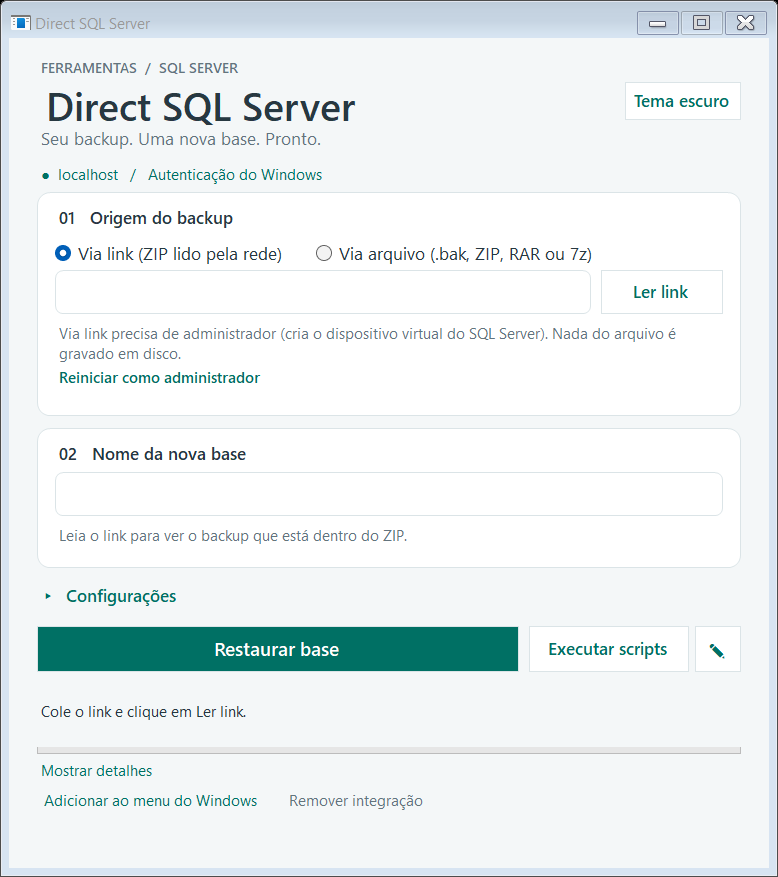
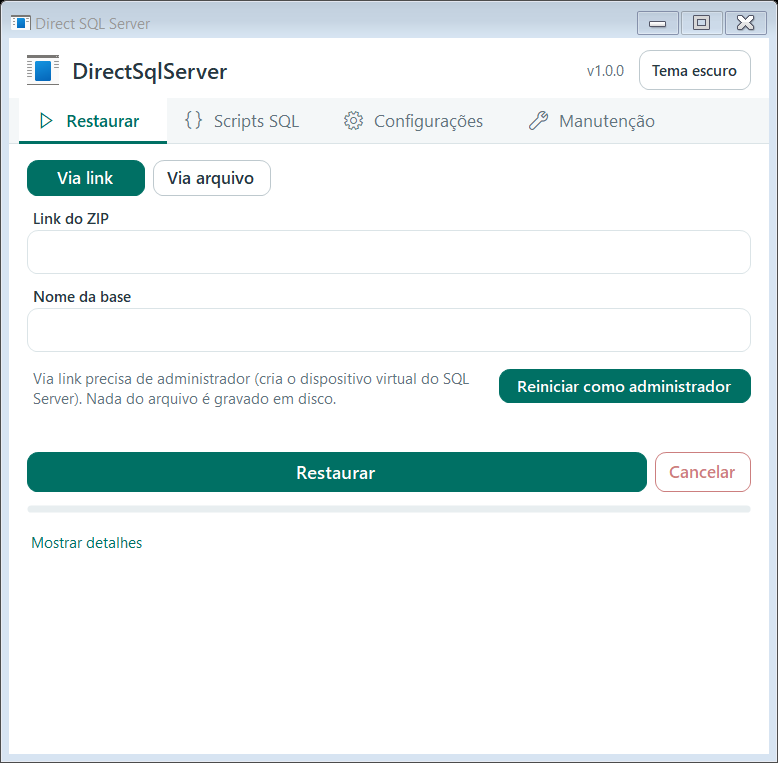
Update documentation: tabbed layout, SQL Server login, notifications, link-first restore, screenshots

diff --git a/README.md b/README.md
@@ -6,7 +6,7 @@ Aplicativo para **Windows** que restaura um backup do SQL Server em uma **base n
   <img src="docs/img/03-compactado-claro.png" alt="Janela principal do Direct SQL Server com um ZIP selecionado" width="520">
 </p>
 
-> **Versão atual: 1.11.2.** Veja o que mudou nas [notas de versão](CHANGELOG.md).
+> **Versão atual: 1.12.0.** Veja o que mudou nas [notas de versão](CHANGELOG.md).
 
 ## Sumário
 
@@ -20,6 +20,9 @@ Aplicativo para **Windows** que restaura um backup do SQL Server em uma **base n
 - [Configurações (opções da restauração)](#configurações-opções-da-restauração)
 - [Opções ao terminar a restauração](#opções-ao-terminar-a-restauração)
 - [Cancelar uma restauração](#cancelar-uma-restauração)
+- [Notificação ao terminar](#notificação-ao-terminar)
+- [Integridade dos dados](#integridade-dos-dados)
+- [Sobras de restaurações interrompidas](#sobras-de-restaurações-interrompidas)
 - [Executar scripts SQL na base restaurada](#executar-scripts-sql-na-base-restaurada)
 - [Menu do botão direito no Explorer](#menu-do-botão-direito-no-explorer)
 - [Tema claro e escuro](#tema-claro-e-escuro)
@@ -41,6 +44,10 @@ Aplicativo para **Windows** que restaura um backup do SQL Server em uma **base n
 - **Nunca substitui nada:** se já existir uma base com o nome escolhido, a restauração é recusada e nada é alterado.
 - **Seguro por padrão:** conecta só no SQL Server **do próprio computador**, com a **autenticação do Windows**. Não pede nem guarda senha.
 - **Cancelar** a restauração a qualquer momento, removendo a base parcial.
+- **Integridade:** confere o CRC do ZIP sozinho e, se você quiser, roda o `DBCC CHECKDB` no fim.
+- **Aguenta queda de rede** no modo link: espera e continua de onde parou.
+- **Links** do Dropbox, Google Drive, OneDrive, SharePoint e S3.
+- **Avisa** quando termina (aviso do app e/ou notificação do Windows) e **limpa sobras** de restaurações interrompidas.
 - **Depois de restaurar (opcional):** executar scripts SQL salvos e **reduzir o arquivo de log**.
 - **Scripts SQL:** botão para rodar, e editar, comandos na base restaurada.
 - **Menu do Explorer:** botão direito no arquivo → *Restaurar no SQL Server…* (opcional).
@@ -98,7 +105,7 @@ No cartão **01 Origem do backup** há duas opções. A linha abaixo muda confor
 
 | Opção | Campo | O que faz |
 |---|---|---|
-| **Via link (ZIP lido pela rede)** | Cole o link e clique em **Ler link** | Lê o índice do ZIP pela rede e mostra o backup que está dentro dele. Veja [Via link](#via-link-restaurar-sem-baixar). |
+| **Via link (ZIP lido pela rede)** | Cole o link e clique em **Restaurar** | Lê o índice do ZIP pela rede e mostra o backup que está dentro dele. Veja [Via link](#via-link-restaurar-sem-baixar). |
 | **Via arquivo (.bak, ZIP, RAR ou 7z)** | Clique em **Selecionar…** ou arraste o arquivo para a janela | Usa um arquivo do disco. Veja [Via arquivo](#via-arquivo-backup-dentro-de-um-compactado). |
 
 <p align="center">
@@ -171,7 +178,7 @@ Com um compactado selecionado **via arquivo**, a caixa **AO RESTAURAR UM COMPACT
   <img src="docs/img/03-compactado-claro.png" alt="Opções de exclusão disponíveis com um compactado selecionado" width="460">
 </p>
 
-- As duas começam **desmarcadas** no primeiro uso e a sua escolha fica salva (`%APPDATA%\DirectSqlServer\preferences.xml`).
+- As duas começam **marcadas** para quem instala agora (quem já usava o app mantém o que escolheu) e a sua escolha fica salva (`%APPDATA%\DirectSqlServer\preferences.xml`).
 - **Só excluem após o sucesso.** Se a restauração falhar, o original e o `.bak` extraído são **preservados**, mesmo com as opções marcadas.
 - Antes de excluir o compactado, o app confere se ele é o mesmo arquivo que você selecionou; se outro programa o trocou ou alterou, **não é excluído**.
 
@@ -181,7 +188,7 @@ Se o Windows não deixar criar a pasta de extração ao lado do compactado (por 
 
 ## Cancelar uma restauração
 
-Enquanto a restauração roda (via link ou via arquivo), o botão **Cancelar** ocupa o lugar de **Executar scripts**, ao lado de **Restaurar base**.
+Enquanto a restauração roda (via link ou via arquivo), o botão **Cancelar**, ao lado de **Restaurar base** na aba **Restaurar**, fica ativo.
 
 1. Clique em **Cancelar** e confirme.
 2. O app interrompe a leitura (extração ou download) e o RESTORE no SQL Server.
@@ -190,16 +197,50 @@ Enquanto a restauração roda (via link ou via arquivo), o botão **Cancelar** o
 
 Cancelar não é instantâneo em backups enormes: o SQL Server precisa desfazer o que já gravou e apagar os arquivos da base parcial, o que pode levar de alguns segundos a alguns minutos.
 
+## Notificação ao terminar
+
+Quando uma restauração termina, é cancelada ou tem um problema, o app avisa. Em **Configurações → Geral → Notificação ao terminar** você escolhe como:
+
+| Opção | O que mostra |
+|---|---|
+| **App** | Um aviso flutuante do próprio app, no canto da tela (sempre no topo, sem tirar o foco de quem está digitando), com o botão **Abrir** que traz a janela de volta. Fecha sozinho em 10 segundos (para de contar com o mouse em cima) e tem um **X** para dispensar. |
+| **Windows** | A notificação padrão do Windows. Clicar nela traz o app de volta. |
+| **Ambas** | Os dois avisos. |
+| **Nenhuma** (padrão) | Não avisa. |
+
+O botão **Testar** mostra na hora a notificação escolhida. O aviso aparece mesmo com a janela à vista. A cor da faixa indica o resultado: verde (concluída), amarelo (cancelada) ou vermelho (problema).
+
+<p align="center">
+  <img src="docs/img/20-aviso-concluida-claro.png" alt="Aviso flutuante do app: Restauração concluída" width="420">
+</p>
+
+## Integridade dos dados
+
+Duas conferências protegem contra backup ou download corrompido:
+
+1. **CRC do ZIP, automático.** Um ZIP guarda uma soma de verificação (CRC-32) de cada arquivo. O app a confere sempre que lê um `.bak` de dentro de um ZIP, via link ou via arquivo. Se não bater, a restauração é **abortada antes de terminar**, a base parcial é removida e a mensagem diz que o arquivo está corrompido. No fim, o registro diz "CRC-32 do ZIP conferido" (ou "não conferido" quando o SQL Server não leu o arquivo até o fim, caso de um `.bak` com mais de um backup).
+2. **DBCC CHECKDB, opcional.** Na aba **Configurações**, marque **DBCC CHECKDB depois**. O SQL Server examina todas as páginas da base. Se achar problemas, a mensagem aparece em vermelho com os detalhes e a base continua disponível (nada é apagado).
+
+Nenhuma das duas substitui o backup original estar saudável: se o backup foi gerado com problema, o `CHECKDB` é a forma de saber.
+
+## Sobras de restaurações interrompidas
+
+Se o app for fechado à força, o PC desligar ou o SQL Server reiniciar no meio de uma restauração, podem sobrar na pasta de dados do SQL Server uma base parcial (`DirectSqlRestore_…`, em "Restaurando") e arquivos `restore_…` que nenhuma base usa, às vezes dezenas de GB.
+
+- **Ao abrir**, o app procura essas sobras. Se achar, pergunta: "Encontrei restos de restaurações interrompidas… Apagar agora?". Você escolhe **Sim** ou **Não**.
+- **Pela aba Manutenção**, em **Limpar arquivos sobrando → Procurar**, você pode procurar quando quiser.
+- Só são considerados arquivos com o **nome criado pelo app** (`restore_<nome>_<código>_N.mdf/ndf/ldf`), que **nenhuma base usa** e com mais de 2 minutos. Nada é apagado enquanto houver uma restauração em andamento. Arquivos de qualquer outra base, ou com nome diferente, nunca são tocados.
+
 ## Executar scripts SQL na base restaurada
 
-Ao lado de **Restaurar base** há o botão **Executar scripts** e um lápis para editá-los. Eles rodam comandos SQL na base indicada em **Nome da nova base**, por exemplo para ajustar dados logo depois de restaurar um backup de produção.
+A aba **Scripts SQL** tem o editor dos comandos e os botões **Executar scripts**, **Salvar** e **Restaurar padrão**. Os comandos rodam na base indicada em **Nome da nova base** (aba **Restaurar**), por exemplo para ajustar dados logo depois de restaurar um backup de produção.
 
-1. **Veja ou altere os comandos:** clique no **lápis**. Abre uma janela com os scripts salvos (na primeira vez, o padrão do app). Edite como quiser e clique em **Salvar**. **Restaurar padrão** volta ao texto original.
-2. **Execute:** confira o nome da base e clique em **Executar scripts**. O app pede confirmação mostrando o nome da base e quantos lotes serão executados.
+1. **Veja ou altere os comandos:** abra a aba **Scripts SQL**. O editor mostra os scripts salvos (na primeira vez, o padrão do app). Edite como quiser e clique em **Salvar**; o título da aba ganha um ponto (**Scripts SQL •**) enquanto há alterações não salvas. **Restaurar padrão** volta ao texto original.
+2. **Execute:** confira o nome da base e clique em **Executar scripts**. Se houver alterações não salvas, o app as salva antes. Ele pede confirmação mostrando o nome da base e quantos lotes serão executados.
 3. **Resultado:** os detalhes abrem sozinhos mostrando cada lote e quantas linhas cada comando afetou.
 
 <p align="center">
-  <img src="docs/img/10-editar-scripts-claro.png" alt="Janela de edição dos scripts SQL" width="560">
+  <img src="docs/img/17-aba-scripts-claro.png" alt="Aba Scripts SQL com o editor e os botões" width="460">
 </p>
 
 <p align="center">
@@ -208,7 +249,7 @@ Ao lado de **Restaurar base** há o botão **Executar scripts** e um lápis para
 
 ### Executar automaticamente depois de restaurar
 
-Marcando **Executar os scripts SQL salvos na base restaurada**, o app roda os scripts salvos logo depois de **restaurar com sucesso**, sem pedir confirmação nem precisar clicar em **Executar scripts**.
+Marcando **Executar os scripts SQL salvos**, o app roda os scripts salvos logo depois de **restaurar com sucesso**, sem pedir confirmação nem precisar clicar em **Executar scripts**.
 
 - **Desmarcada por padrão.** A escolha fica salva em `%APPDATA%\DirectSqlServer\preferences.xml` e continua depois de reiniciar o PC.
 - **Vale via arquivo e via link.**
@@ -234,9 +275,9 @@ Com **Via link** selecionado, o app restaura **direto de um link para um ZIP**, 
 
 **Passo a passo**
 1. Com **Via link** selecionado, o app mostra um aviso se não estiver como administrador (o dispositivo virtual exige isso). Clique em **Reiniciar como administrador**, aceite o pedido do Windows e o app reabre.
-2. Cole o **link público (https)** de um `.zip` e clique em **Ler link**. Com o Dropbox, use o link com `dl=1` no final.
-3. O app lê só o índice do ZIP e mostra o backup que está dentro dele, no cartão do nome. Se houver mais de um `.bak`, abre uma janela para você escolher. O nome da base é sugerido a partir do nome do `.bak`.
-4. Confira o nome da nova base e clique em **Restaurar base**. A barra mostra quanto já foi lido da rede, a velocidade e o tempo restante.
+2. Cole o **link público (https)** de um `.zip`. Com o Dropbox, use o link com `dl=1` no final. Informe o **Nome da base** (se deixar vazio, o app usa o nome do `.bak`).
+3. Clique em **Restaurar**. O primeiro passo é ler só o índice do ZIP pela rede. Se houver mais de um `.bak`, abre uma janela para você escolher.
+4. A restauração segue sozinha. A barra mostra quanto já foi lido da rede, a velocidade e o tempo restante.
 
 <p align="center">
   <img src="docs/img/14-link-preparando-claro.png" alt="Fase de preparação dos arquivos da base no SQL Server" width="460">
@@ -252,12 +293,26 @@ Com **Via link** selecionado, o app restaura **direto de um link para um ZIP**, 
 
 **O que você economiza.** Hoje, com um ZIP de 50 GB e um backup de 100 GB, o pico de disco chega a cerca de 250 GB (ZIP + pasta extraída + base). Restaurando do link, o pico é só o da **base (100 GB)**.
 
+**Links aceitos.** Cole o link de compartilhamento como ele vem; o app converte para o endereço de download:
+
+| Serviço | O que o app faz |
+|---|---|
+| **Dropbox** | Troca `dl=0` por `dl=1` (ou acrescenta). |
+| **Google Drive** | Aceita `drive.google.com/file/d/…/view`, `open?id=…` e `uc?id=…`; o arquivo precisa estar com "Qualquer pessoa com o link". |
+| **OneDrive** (`1drv.ms`, `onedrive.live.com`) | Usa a API de links de compartilhamento do OneDrive. |
+| **SharePoint / OneDrive empresarial** | Acrescenta `download=1`. |
+| **Amazon S3** | Links pré-assinados funcionam como estão. |
+| **Qualquer outro link direto** | Usado como está. |
+
+Se o link abrir uma **página da web** (login, aviso do serviço) em vez do arquivo, o app avisa isso. O modo precisa que o servidor aceite leitura parcial (`Range`): Dropbox e S3 aceitam; Google Drive e OneDrive foram preparados, mas o comportamento deles depende do serviço.
+
 **Limites do modo link**
 - Só **ZIP**. RAR e 7z não podem ser lidos em partes pela rede.
 - O servidor do link precisa aceitar **leitura parcial** (cabeçalho `Range`). O Dropbox aceita. Se o servidor não aceitar, o app avisa.
 - Restaura o **primeiro backup** do `.bak`. Para arquivos com vários backups, use **Via arquivo**.
 - Precisa de **administrador**. Em um app elevado, arrastar arquivos do Explorer para a janela não funciona (limitação do Windows); use **Selecionar…**.
-- Se a conexão cair no meio, a restauração falha e o app informa; o app remove a base parcial `DirectSqlRestore_…` e os arquivos dela. Só fica algo para você apagar à mão se o SQL não conseguir removê-los (o registro avisa o caminho). A base com o nome que você escolheu só aparece quando tudo termina.
+- **Se a rede cair**, o app **espera e continua de onde parou**: avisa "Sem conexão com o servidor do link há 00:42. Tentando de novo", e quando a conexão volta a restauração segue sem recomeçar nem perder dados. Ele só desiste depois de **30 minutos** sem conseguir nada, ou se o servidor passar a recusar o acesso (link expirado ou removido).
+- Se a restauração falhar de outro jeito, o app remove a base parcial `DirectSqlRestore_…` e os arquivos dela. Só fica algo para você apagar à mão se o SQL não conseguir removê-los (o registro avisa o caminho).
 - O link contém um código secreto: o app **não o grava** em log nem em arquivo.
 - As opções de exclusão de arquivos não se aplicam (não há arquivo extraído nem compactado no disco). As opções de **depois da restauração** valem normalmente.
 - Antes de começar, o app confere se há espaço livre para a base e recusa nomes de base já existentes.
@@ -266,7 +321,7 @@ Com **Via link** selecionado, o app restaura **direto de um link para um ZIP**, 
 
 ### Instância do SQL Server
 
-No topo de **Configurações** há o campo **Instância do SQL Server**.
+Na aba **Configurações**, no canto superior esquerdo, há o campo **Instância do SQL Server**.
 
 - **Vazio** usa a instância **padrão** (`MSSQLSERVER`). É o que a maioria dos computadores tem.
 - Para uma instância **nomeada**, digite só o nome, por exemplo `SQLEXPRESS`. A faixa verde no alto passa a mostrar `localhost\SQLEXPRESS`.
@@ -276,23 +331,41 @@ No topo de **Configurações** há o campo **Instância do SQL Server**.
 
 ### Opções de restauração
 
-Todas as opções ficam sob o título **Configurações**, entre o nome da base e o botão **Restaurar base**. Clique em **▸ Configurações** para expandir e em **▾ Configurações** para recolher. Recolhido (o padrão), o título mostra quantas opções estão ativas, por exemplo "▸ Configurações · 2 opções ativas".
+A janela tem quatro abas no topo: **Restaurar**, **Scripts SQL**, **Configurações** e **Manutenção**. As opções ficam na aba **Configurações**, em quatro sessões: **Conexão com o SQL Server** (instância e autenticação), **Geral** (**Verificar CRC do ZIP** e **Notificação ao terminar**), **Ao terminar a restauração** (**DBCC CHECKDB depois**, **Rodar scripts depois** e **Reduzir log**) e **Arquivos compactados** (**Apagar ZIP após restaurar** e **Apagar .bak extraído após restaurar**, só via arquivo). Passe o mouse sobre cada uma para ver a explicação. **Verificar CRC do ZIP** já vem marcada e a notificação vem em **Nenhuma**.
 
 <p align="center">
-  <img src="docs/img/15-configuracoes-recolhidas-claro.png" alt="Configurações recolhidas, mostrando 2 opções ativas" width="460">
+  <img src="docs/img/16-configuracoes-abertas-claro.png" alt="Aba Configurações com as opções em duas colunas" width="460">
 </p>
 
+### Autenticação do SQL Server (usuário e senha)
+
+Por padrão o app entra no SQL Server com o **usuário do Windows** que o abriu. Em **Configurações → Conexão com o SQL Server** dá para escolher **SQL Server** em **Autenticação** e informar **Usuário** (começa em `sa`) e **Senha**. O campo **Instância SQL** mostra `MSSQLSERVER` (a instância padrão) quando está vazio.
+
+- **Lembrar a senha neste computador:** desmarcado (padrão), o app pede a senha de novo toda vez que abrir. Marcado, a senha fica guardada **criptografada** (Windows DPAPI), legível só pelo seu usuário do Windows neste computador; nunca em texto puro.
+- **Testar conexão:** mostra com qual usuário entrou e a versão do SQL Server, ou o motivo da falha.
+- A instância precisa aceitar autenticação do SQL Server (modo misto). A conexão continua sendo local, por memória compartilhada.
+- Ao usar **Reiniciar como administrador** (via link) sem lembrar a senha, digite a senha de novo depois que o app reabrir.
+
 <p align="center">
-  <img src="docs/img/16-configuracoes-abertas-claro.png" alt="Configurações expandidas com as opções de exclusão, scripts e redução do log" width="460">
+  <img src="docs/img/19-configuracoes-login-sql-claro.png" alt="Configurações com a autenticação do SQL Server (usuário e senha)" width="460">
+</p>
+
+### Aba Manutenção
+
+Reúne o que antes ficava no rodapé: **Limpar arquivos sobrando → Varrer** (procurar sobras), **Atualizações → Verificar** (consulta agora) e **Instalar / desinstalar atalho** (o botão muda entre **Instalar** e **Remover** o menu do botão direito).
+
+<p align="center">
+  <img src="docs/img/18-aba-manutencao-claro.png" alt="Aba Manutenção" width="460">
 </p>
 
 ## Opções ao terminar a restauração
 
-Em **AO TERMINAR QUALQUER RESTAURAÇÃO**, dentro de **Configurações**, valem para **via link e via arquivo**. Todas começam **desmarcadas**. A escolha de **Executar scripts** fica salva (`%APPDATA%\DirectSqlServer\preferences.xml`), inclusive depois de reiniciar o PC. A de **Reduzir o log não é lembrada**, de propósito, porque muda o modelo de recuperação da base: você marca de novo quando quiser.
+Em **AO TERMINAR QUALQUER RESTAURAÇÃO**, dentro de **Configurações**, valem para **via link e via arquivo**. No primeiro uso, **Rodar scripts depois** vem marcada; **DBCC CHECKDB depois** e **Reduzir log** vêm desmarcadas (quem já usava o app mantém o que escolheu). A escolha de **Executar scripts** fica salva (`%APPDATA%\DirectSqlServer\preferences.xml`), inclusive depois de reiniciar o PC. A de **Reduzir o log não é lembrada**, de propósito, porque muda o modelo de recuperação da base: você marca de novo quando quiser.
 
 | Opção | O que faz |
 |---|---|
-| **Executar os scripts SQL salvos na base restaurada** | Roda os scripts do botão ✎ logo depois de restaurar com sucesso, sem pedir confirmação. Veja [Executar scripts SQL](#executar-scripts-sql-na-base-restaurada). |
+| **Verificar integridade (DBCC CHECKDB)** | Roda o `DBCC CHECKDB` do SQL Server na base restaurada, com porcentagem e tempo restante. Pode levar muito tempo em bases grandes e dá para **Cancelar** só a verificação (a base continua restaurada). É a **primeira** etapa, antes dos scripts. Veja [Integridade dos dados](#integridade-dos-dados). |
+| **Executar os scripts SQL salvos** | Roda os scripts da aba Scripts SQL logo depois de restaurar com sucesso, sem pedir confirmação. Veja [Executar scripts SQL](#executar-scripts-sql-na-base-restaurada). |
 | **Reduzir o arquivo de log depois de restaurar** | Reduz o log da base restaurada para cerca de 256 MB (veja abaixo). **Não é lembrada**: começa sempre desmarcada, toda vez que o app abre. |
 
 Se uma etapa falhar, a base continua restaurada e a mensagem em vermelho explica o que não deu certo. Quando tudo dá certo, a mensagem final lista o que foi feito: "Base “X” restaurada, scripts executados, log reduzido."
@@ -313,7 +386,7 @@ Cuidados:
 
 ## Menu do botão direito no Explorer
 
-Opcional. No rodapé da janela, clique em **Adicionar ao menu do Windows**. Depois, no Explorer:
+Opcional. Na aba **Manutenção**, em **Instalar / desinstalar atalho**, clique em **Instalar**. Depois, no Explorer:
 
 1. Clique com o botão direito em um `.bak`, `.zip`, `.rar` ou `.7z`.
 2. No Windows 11, escolha **Mostrar mais opções**.
@@ -331,16 +404,16 @@ O botão no canto superior direito alterna entre **Tema escuro** e **Tema claro*
 
 ## Atualizações automáticas
 
-Ao abrir, o app verifica em segundo plano se há versão nova. Quando houver, o link do rodapé muda para **Nova versão X disponível: atualizar agora**.
+Ao abrir, e **a cada 6 horas** enquanto o app ficar aberto, ele verifica em segundo plano se há versão nova. O canto direito do cabeçalho mostra sempre o resultado: **Nova versão X disponível: atualizar agora** ou **vX · atualizada**, sem precisar clicar para conferir.
 
 <p align="center">
-  <img src="docs/img/07-atualizacao-disponivel-claro.png" alt="Rodapé avisando que há uma nova versão" width="460">
+  <img src="docs/img/07-atualizacao-disponivel-claro.png" alt="Aviso de nova versão acima das abas" width="460">
 </p>
 
 1. Clique no link. O app baixa a atualização (mostrando o progresso).
 2. Ao terminar, ele **reinicia sozinho** já na versão nova.
 
-O link **Verificar atualizações** também permite checar manualmente. Ele só aparece no app instalado pelo instalador. Se houver uma restauração em andamento, a atualização espera você terminar.
+Além da verificação automática, a aba **Manutenção** tem o botão fixo **Verificar**, que consulta na hora (e responde também com "Você já está na versão mais recente"). Ele funciona só no app instalado pelo instalador; numa cópia executada de uma pasta, o app avisa isso. Se houver uma restauração em andamento, a atualização espera você terminar.
 
 Suas preferências, tema e registros ficam fora da pasta do app e **não são apagados** na atualização.
 
@@ -382,7 +455,7 @@ Se o serviço do SQL Server não tem permissão para ler o backup (comum em Down
 | **Segunda base com o mesmo nome criada por outra ferramenta durante a restauração** | A base externa fica intacta e a sua restauração permanece com o nome interno, informado nos detalhes. |
 | **"O Windows protegeu o computador"** | Veja [o aviso na instalação](#aviso-o-windows-protegeu-o-computador). |
 | **O menu do botão direito não aparece** | No Windows 11, use **Mostrar mais opções**. Se ainda assim faltar, clique em **Adicionar ao menu do Windows** de novo. |
-| **O app não atualiza** | Confira a internet e clique em **Verificar atualizações**. A mensagem de erro aparece na barra de status. |
+| **O app não atualiza** | Confira a internet e abra a aba **Manutenção** e clique em **Verificar**. A mensagem de erro aparece na barra de status. |
 
 Em caso de dúvida, abra o arquivo mais recente em `%LOCALAPPDATA%\DirectSqlServer\Logs`: ele traz o passo a passo e o erro completo.
 

diff --git a/CHANGELOG.md b/CHANGELOG.md
@@ -1,6 +1,36 @@
 # Notas de versão
 
-## 1.11.4
+## 1.12.0
+
+### Layout
+- Janela com **abas no topo**: Restaurar, Scripts SQL, Configurações e Manutenção.
+- **Scripts SQL** virou aba, com o editor embutido (Executar scripts, Salvar, Restaurar padrão); a janela separada do lápis deixou de existir.
+- **Configurações** deixou de ser o card recolhível: ficam em duas colunas, e o título da aba mostra quantas opções estão ativas.
+- **Manutenção** reúne o que estava no rodapé: procurar sobras, verificar atualizações e a integração com o menu do Windows.
+- Via link não tem mais o botão **Ler link**: o **Restaurar** lê o índice do ZIP como primeiro passo (e deixa escolher o `.bak` se houver mais de um).
+- **Autenticação do SQL Server:** em Configurações, além do Windows (padrão), dá para entrar com usuário (`sa` por padrão) e senha, com **Testar conexão**. A senha só é lembrada se você pedir, criptografada (DPAPI). O campo de instância mostra `MSSQLSERVER` quando é a padrão.
+- **Notificação ao terminar** configurável: aviso do **App** (flutuante, no estilo do PRNotifier, com botão Abrir), notificação do **Windows**, **Ambas** ou **Nenhuma** (padrão), com botão **Testar**. O aviso do Windows agora aparece também com a janela à vista.
+- Visual novo: cabeçalho enxuto (ícone, nome e versão), **Via link / Via arquivo** em botões, campo **Nome da base**, cartão de andamento com velocidade e tempo à direita e barra fina, botões arredondados e caixas com "v".
+- **Configurações** ganhou **Verificar CRC do ZIP** e **Avisar no Windows ao terminar** (ambas ligadas por padrão); as explicações ficam em dicas ao passar o mouse.
+- O botão **Cancelar** agora é próprio, ao lado de **Restaurar base**; o aviso de versão fica acima das abas.
+- Se a conexão ficar muda (cabo desligado), a tela avisa em ~5 s "Sem receber dados do servidor há mm:ss…", em vez de só depois do tempo limite de 60 s.
+
+### Integridade
+- **Conferência do CRC do ZIP**, via link e via arquivo (a biblioteca do .NET não conferia). Um arquivo corrompido aborta a restauração antes do fim, remove a base parcial e diz que o ZIP está corrompido. O registro informa se o CRC foi conferido.
+- Nova opção **Verificar a integridade da base depois de restaurar (DBCC CHECKDB)**, com porcentagem e tempo restante, cancelável. Roda antes dos scripts e da redução do log.
+
+### Rede
+- **A restauração via link continua depois de uma queda de rede.** O app espera, avisa ("Sem conexão com o servidor do link há 00:42…") e continua de onde parou; só desiste após 30 minutos sem conexão ou se o servidor recusar o acesso (link expirado).
+- Links do **Google Drive**, **OneDrive**, **SharePoint** e **S3** (além do Dropbox) são convertidos para o endereço de download. Um link que abre uma página da web em vez do arquivo agora é identificado com uma mensagem clara.
+
+### Sobras
+- **Varredura de sobras** ao abrir e pelo link "Procurar sobras": acha bases parciais `DirectSqlRestore_…` e arquivos `restore_…` de restaurações interrompidas à força e oferece apagar. Só mexe em nomes criados pelo app, que nenhuma base usa.
+
+### Avisos
+- **Notificação do Windows** quando uma restauração termina, é cancelada ou tem problema e a janela não está à vista.
+- **Atualizações:** o app verifica ao abrir e **a cada 6 horas**, e o rodapé mostra o resultado ("Nova versão X disponível" ou "Versão X · atualizada"). Continua havendo o botão **Verificar atualizações** no rodapé para checar na hora.
+
+## 1.11.4 (instância nomeada)
 
 ### Instância nomeada do SQL Server
 - Antes o app só conectava na instância **padrão** (`MSSQLSERVER`), então falhava em computadores com `SQLEXPRESS` ou outra instância nomeada, mesmo com o SSMS abrindo normalmente. Agora há o campo **Instância do SQL Server** em **Configurações**: vazio = padrão; ou digite o nome (ex.: `SQLEXPRESS`).
